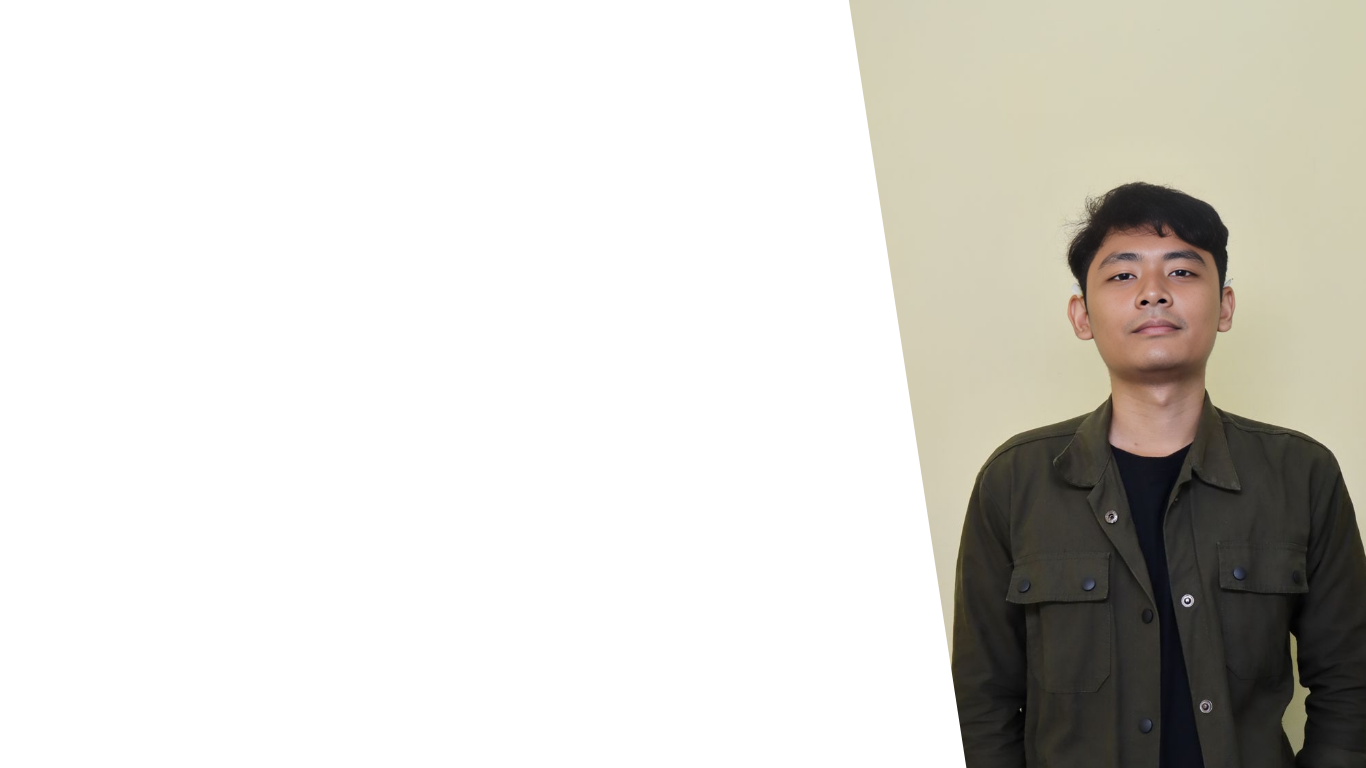
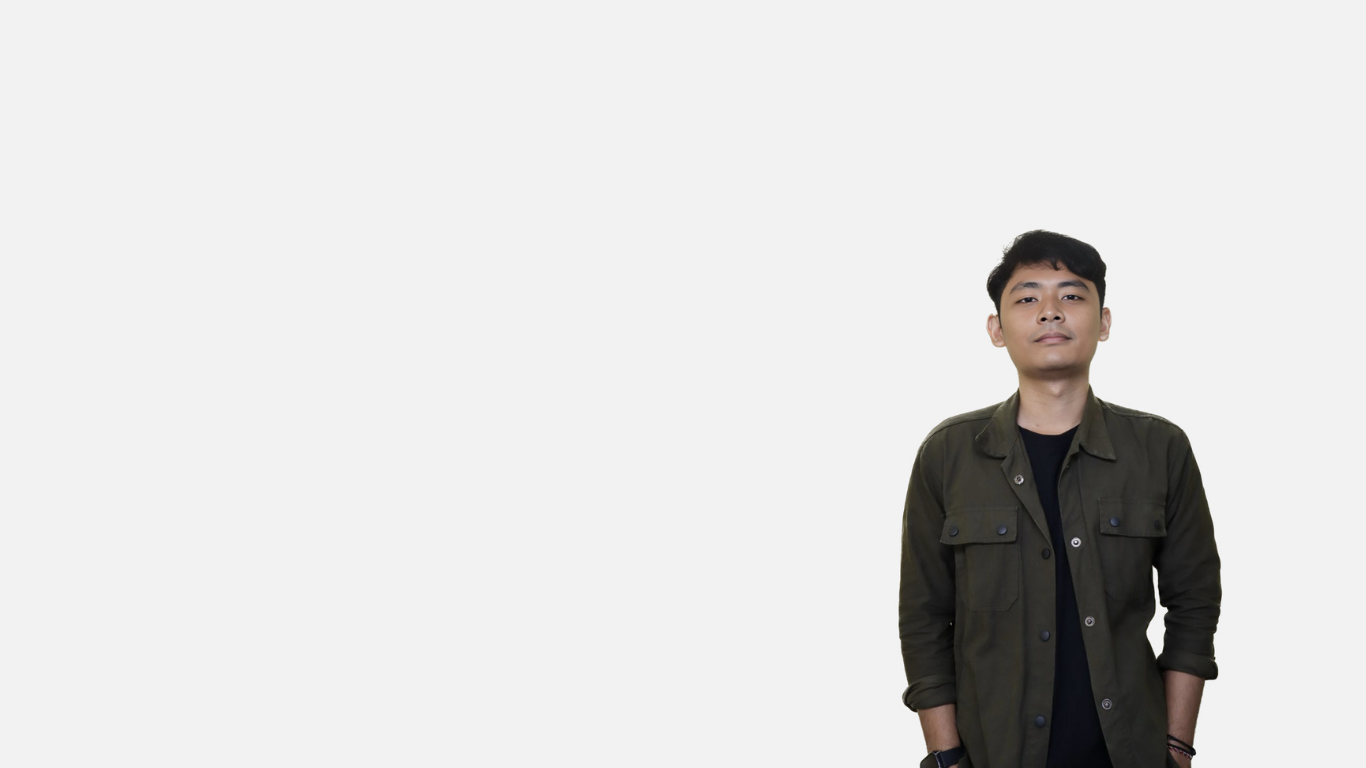
Add Hero Section

Changed region(s): [[0.6149, 0.0, 1.0, 1.0]]

diff --git a/style.css b/style.css
@@ -1,0 +1,255 @@
+/* =========================
+   Google Fonts
+========================= */
+
+@import url("https://fonts.googleapis.com/css2?family=Inter:wght@300;400;500;600;700&family=Playfair+Display:wght@500;600;700&display=swap");
+
+/* =========================
+   Global Style
+========================= */
+
+* {
+  margin: 0;
+  padding: 0;
+  box-sizing: border-box;
+}
+
+body {
+  font-family: "Inter", sans-serif;
+  /* dark background */
+}
+
+/* =========================
+   Typography
+========================= */
+
+h1,
+h2,
+h3 {
+  font-family: "Playfair Display", serif;
+}
+
+p {
+  line-height: 1.7;
+}
+
+/* =========================
+   Navbar
+========================= */
+
+.navbar {
+  position: fixed;
+  top: 0;
+  width: 100%;
+  padding: 16px 48px;
+  display: flex;
+  justify-content: space-between;
+  align-items: center;
+  background: transparent;
+  transition: all 0.3s ease;
+  z-index: 1000;
+}
+
+/* blur ketika scroll */
+
+.navbar.scrolled {
+  background: rgba(15, 23, 42, 0.6);
+  backdrop-filter: blur(10px);
+  border-bottom: 1px solid rgba(255, 255, 255, 0.1);
+}
+
+/* =========================
+   Hero Section
+========================= */
+
+/* =========================
+   Hero Section (Responsive)
+========================= */
+
+.hero {
+  min-height: 100vh;
+  background-image: url("assets/img/latar.png");
+  background-size: cover;
+  background-repeat: no-repeat;
+  background-position: center;
+  display: flex;
+  align-items: center;
+  padding: 0 230px;
+}
+
+/* Tablet */
+
+/* =========================
+   Tablet Layout (Center)
+========================= */
+
+@media (max-width: 1024px) and (min-width: 769px) {
+  .hero-content {
+    grid-template-columns: 1fr;
+    text-align: center;
+    justify-items: center;
+  }
+  .hero-text {
+    align-items: center;
+  }
+  .hero-buttons {
+    justify-content: center;
+  }
+  .hero-socials {
+    justify-content: center;
+  }
+  .hero-image {
+    display: none;
+  }
+}
+
+/* Mobile */
+
+@media (max-width: 768px) {
+  .hero {
+    padding: 0 24px;
+    background-position: center;
+  }
+}
+
+.hero-content {
+  max-width: 1100px;
+  display: grid;
+  grid-template-columns: 1fr 1fr;
+  gap: 48px;
+}
+
+/* Text kiri */
+
+.hero-text h1 {
+  font-size: 5rem;
+  font-family: "League Spartan", sans-serif;
+  font-weight: 800;
+  margin: 0;
+  /* RESET TOTAL */
+  line-height: 1;
+  /* INI KUNCI UTAMA */
+}
+
+.highlight {
+  color: #f97316;
+  /* orange */
+}
+
+.hero-text h2 {
+  font-size: 1rem;
+  font-family: "Poppins", sans-serif;
+  font-weight: 400;
+  margin: 5px 0 0 0;
+  /* jarak super dekat */
+  line-height: 1.2;
+  font-style: italic;
+}
+
+.hero-text p {
+  font-size: 0.7rem;
+  color: #cbd5f5;
+}
+
+/* =========================
+   Responsive
+========================= */
+
+@media (max-width: 768px) {
+  .hero {
+    padding: 0 24px;
+  }
+  .hero-content {
+    grid-template-columns: 1fr;
+    text-align: center;
+  }
+  .hero-text h1 {
+    font-size: 2.2rem;
+  }
+}
+
+/* =========================
+   Hero Buttons
+========================= */
+
+.hero-buttons {
+  margin-top: 16px;
+  display: flex;
+  gap: 16px;
+}
+
+/* base button */
+
+.btn {
+  padding: 14px 32px;
+  font-family: "League Spartan", sans-serif;
+  font-weight: 600;
+  text-decoration: none;
+  border-radius: 0;
+  /* ⬅ INI KUNCINYA */
+  transition: all 0.3s ease;
+  display: inline-flex;
+  align-items: center;
+  justify-content: center;
+  min-width: 160px;
+}
+
+/* white outline */
+
+.btn-outline {
+  background: transparent;
+  color: #090909;
+  border: 2px solid #000000;
+}
+
+/* hover effect (keduanya jadi orange) */
+
+.btn:hover {
+  background-color: #f97316;
+  color: #000000;
+  border-color: #f97316;
+  transform: translateY(-2px);
+  border: 2px solid #000000;
+}
+
+/* =========================
+   Responsive Button
+========================= */
+
+@media (max-width: 768px) {
+  .hero-buttons {
+    justify-content: center;
+    flex-wrap: wrap;
+  }
+  .btn {
+    width: 100%;
+    max-width: 260px;
+  }
+}
+
+/* =========================
+   Social Icons
+========================= */
+
+.hero-socials {
+  margin-top: 8px;
+  display: flex;
+  gap: 20px;
+}
+
+.hero-socials a {
+  color: #000000;
+  font-size: 1.4rem;
+  transition: all 0.3s ease;
+}
+
+.hero-socials a:hover {
+  color: #f97316;
+  transform: translateY(-3px);
+}
+
+@media (max-width: 768px) {
+  .hero-socials {
+    justify-content: center;
+  }
+}

diff --git a/index.html b/index.html
@@ -3,7 +3,20 @@
   <head>
     <meta charset="UTF-8" />
     <meta name="viewport" content="width=device-width, initial-scale=1.0" />
+    <!-- GOOGLE FONT -->
+    <link rel="preconnect" href="https://fonts.googleapis.com" />
+    <link rel="preconnect" href="https://fonts.gstatic.com" crossorigin />
+    <link
+      href="https://fonts.googleapis.com/css2?family=League+Spartan:wght@100..900&display=swap"
+      rel="stylesheet"
+    />
+    <link rel="stylesheet" href="style.css" />
+    <!-- TAILWIND CSS -->
     <script src="https://cdn.tailwindcss.com"></script>
+    <link
+      rel="stylesheet"
+      href="https://cdnjs.cloudflare.com/ajax/libs/font-awesome/6.5.0/css/all.min.css"
+    />
 
     <title>Yoga Wiastina</title>
   </head>
@@ -46,41 +59,58 @@
         <a href="#" class="block py-2">Contact</a>
       </div>
     </header>
-    <section
-      id="home"
-      class="min-h-screen bg-cover bg-center relative"
-      style="background-image: url('assets/img/latar.png')"
-    >
-      <div
-        class="relative z-10 min-h-screen max-w-7xl mx-auto px-6 flex items-center"
-      >
-        <div class="grid grid-cols-1 md:grid-cols-2 gap-12 w-full">
-          <div class="text-black">
-            <h1 class="text-4xl md:text-6xl font-extrabold mb-4">
-              Hi, I’m <span class="text-indigo-400">Yoga</span>
-            </h1>
-
-            <p class="text-lg md:text-xl text-black-200 mb-8">
-              Network Access Engineer & Web Developer
-            </p>
-
-            <div class="flex gap-4">
-              <a
-                href="#projects"
-                class="px-6 py-3 bg-indigo-600 rounded-lg font-semibold hover:bg-indigo-700"
-              >
-                View Projects
-              </a>
-              <a
-                href="#contact"
-                class="px-6 py-3 border border-black rounded-lg font-semibold hover:bg-white hover:text-black"
-              >
-                Contact Me
-              </a>
-            </div>
+    <section class="hero">
+      <div class="hero-content">
+        <div class="hero-text">
+          <h1>Hi, I'am <span class="highlight">Yoga</span>,</h1>
+          <h2>Network Engineer & Web Developer.</h2>
+          <!-- <p>
+            Experienced in network infrastructure, system administration, and
+            full-stack web development.
+          </p> -->
+          <div class="hero-buttons">
+            <a href="#project" class="btn btn-outline">View Projects</a>
           </div>
-
-          <div class="hidden md:block"></div>
+          <div class="hero-socials">
+            <a
+              href="https://github.com/username"
+              target="_blank"
+              aria-label="GitHub"
+            >
+              <i class="fa-brands fa-github"></i>
+            </a>
+            <a
+              href="https://github.com/username"
+              target="_blank"
+              aria-label="GitHub"
+            >
+              <i class="fa-brands fa-instagram"></i>
+            </a>
+            <a
+              href="https://github.com/username"
+              target="_blank"
+              aria-label="GitHub"
+            >
+              <i class="fa-brands fa-facebook"></i>
+            </a>
+            <a
+              href="https://linkedin.com/in/username"
+              target="_blank"
+              aria-label="LinkedIn"
+            >
+              <i class="fa-brands fa-linkedin"></i>
+            </a>
+            <a
+              href="https://github.com/username"
+              target="_blank"
+              aria-label="GitHub"
+            >
+              <i class="fa-brands fa-twitter"></i>
+            </a>
+            <a href="mailto:email@example.com" aria-label="Email">
+              <i class="fa-solid fa-envelope"></i>
+            </a>
+          </div>
         </div>
       </div>
     </section>
